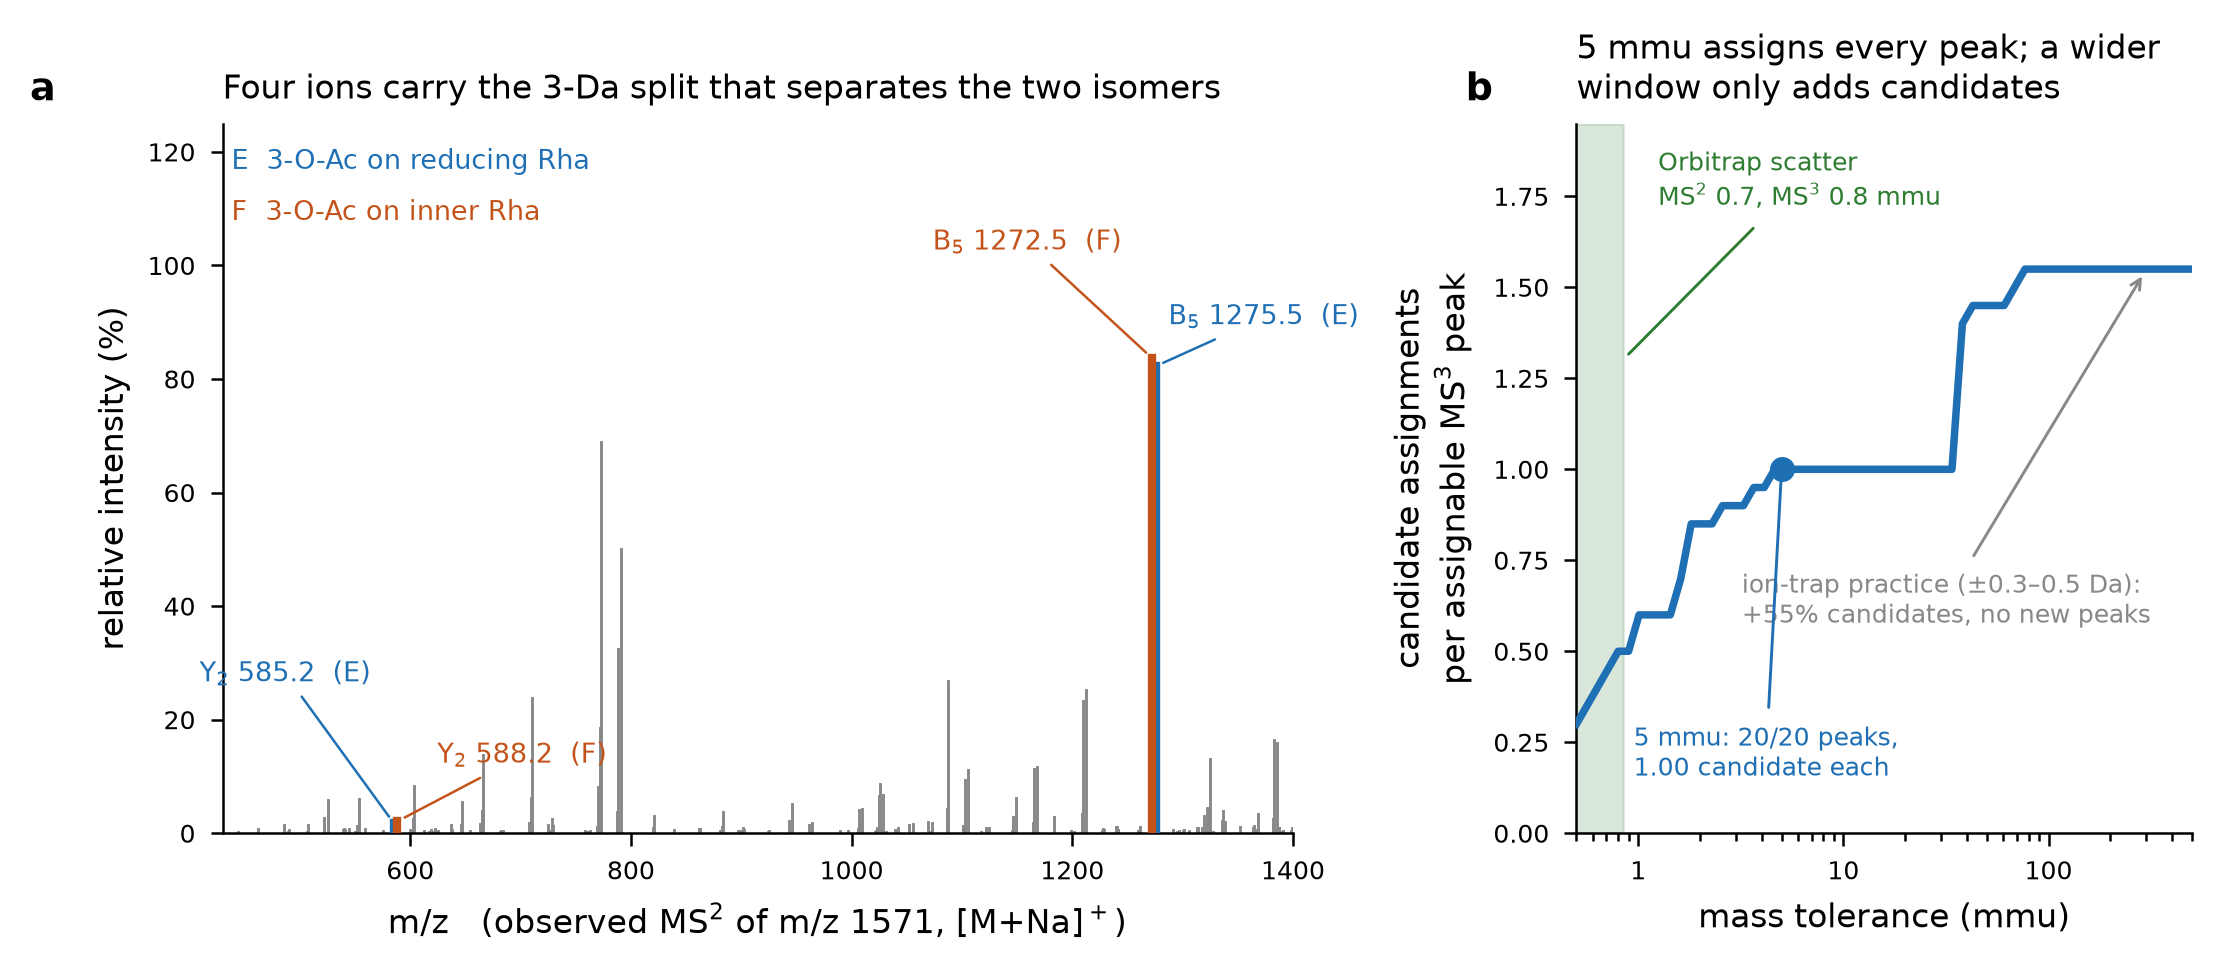
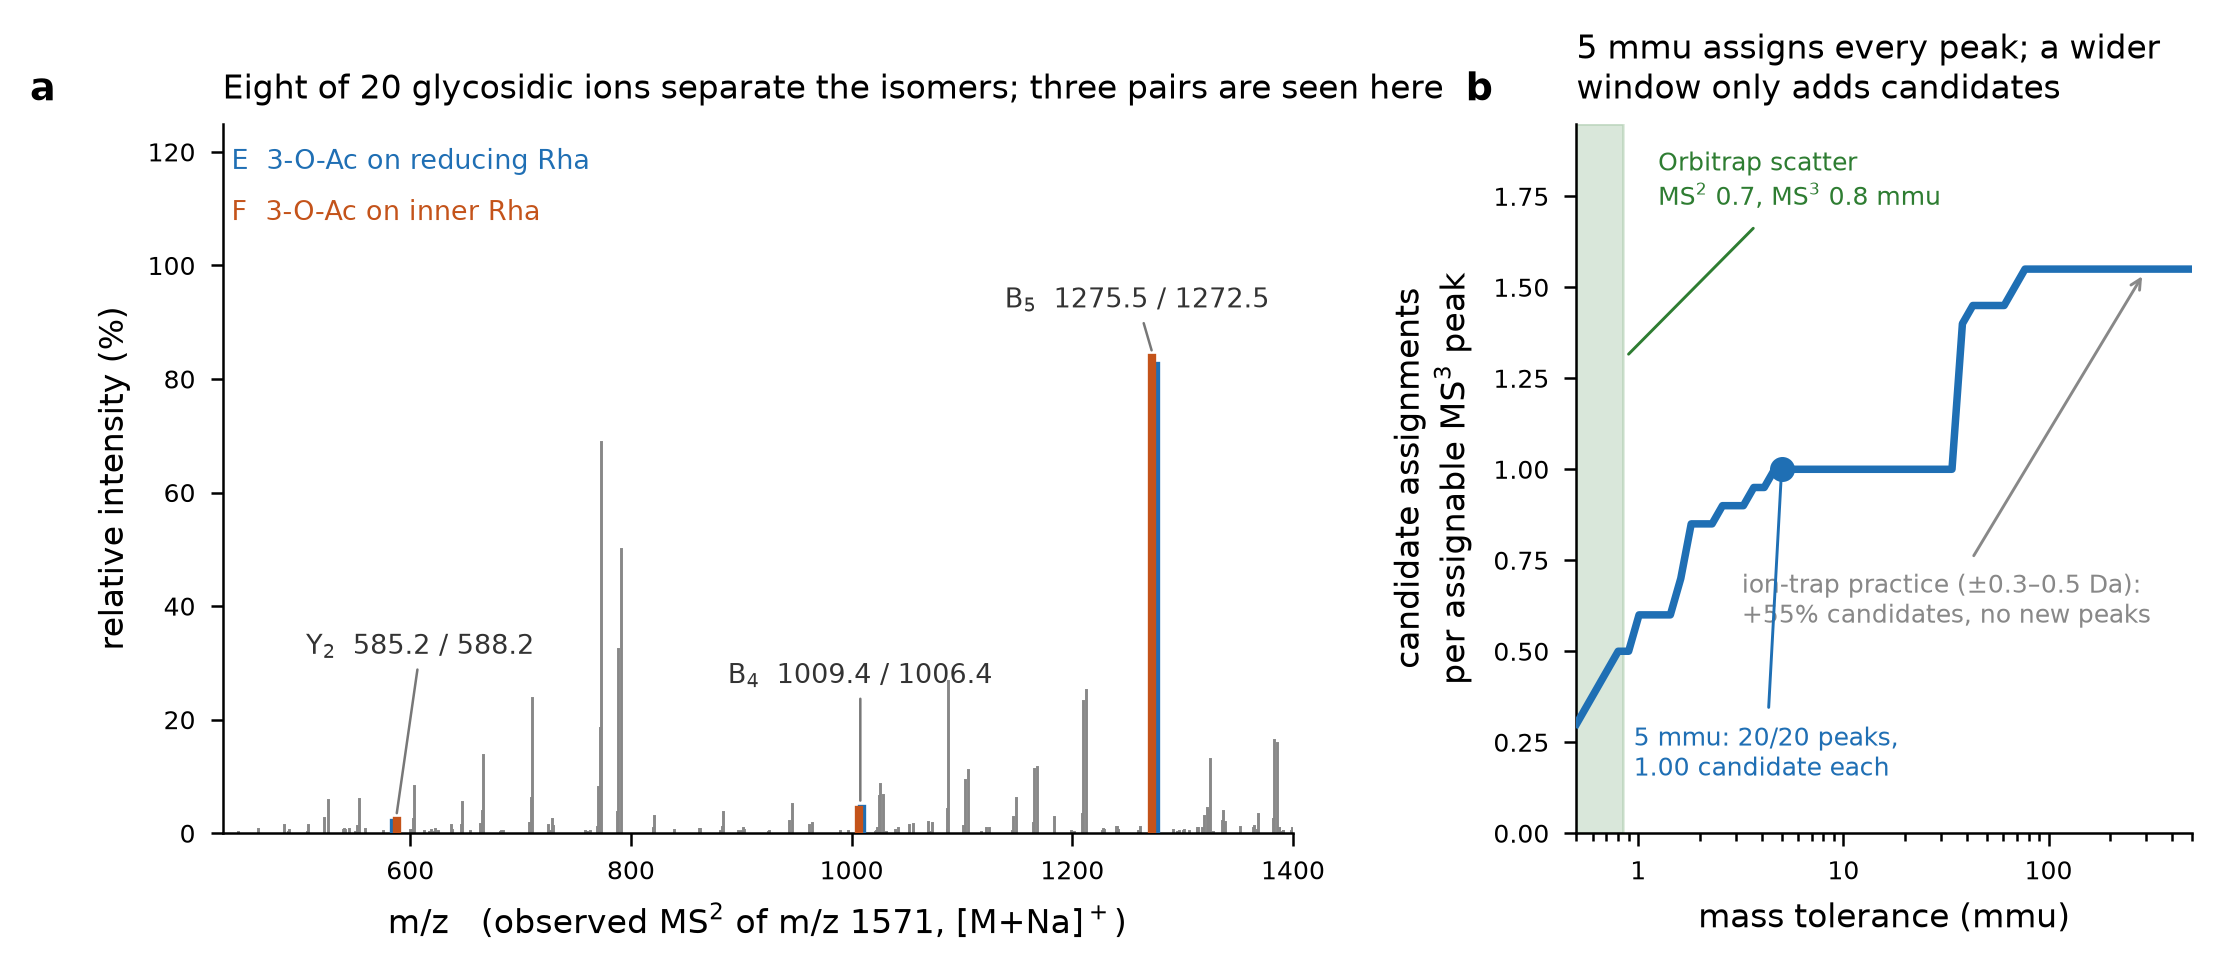
RG-I MS^n interpreter: library, desktop app, validation against doi:10.1021/jasms.5c00440

diff --git a/README.md b/README.md
@@ -22,7 +22,7 @@ Each candidate oligomer is built as an explicit **atom graph** - RG-I backbone,
 *O*-acetyls in place, optional Gal side chain. Fragments are generated by cutting bonds on
 that graph, so a cross-ring ion's mass follows from which carbons it keeps and what is
 esterified on them. That is what separates 3-*O*- from 2-*O*- and 4-*O*-acetylation, and it
-is why no residue-increment tables are needed. Full conventions are in
+is why no residue-increment tables are needed (Figure 1). Full conventions are in
 [docs/METHOD.md](docs/METHOD.md).
 
 - glycosidic B/C/Y/Z and cross-ring A/X ions in Domon-Costello nomenclature
@@ -35,13 +35,30 @@ is why no residue-increment tables are needed. Full conventions are in
   which is the normal situation for an RG-I digest
 - every competing assignment for a peak, not one best guess
 
+![Atom graph of a deuteroacetylated RG-I DP6 and of one rhamnose ring](figures/rgi_atom_graph_scheme.png)
+
+**Figure 1.** How a candidate is represented. (a) The precursor as one graph: residues,
+the linkage oxygen of every glycosidic bond, and every acyl group are nodes. The glycosidic
+unit C1-O-Cp carries two cleavable bonds, so B/Y comes from cutting C1-O and C/Z from
+cutting O-Cp. (b) The reducing-end rhamnose at atom resolution, with the six ring bonds
+numbered as the code numbers them (0: O5-C1 through 5: C5-O5). The <sup>1,3</sup>X<sub>0</sub>
+cut severs bonds 1 and 3; the retained piece (blue) keeps C1, O5, C5 and C4, and therefore
+reports what sits on O-4 and O-1 while being blind to O-3. Both positional isomers give this
+fragment the *same 25 atoms in the same connectivity*, but 3-*O*-acetylation leaves two
+d<sub>3</sub>-acetyl groups on the retained piece (C<sub>8</sub>H<sub>6</sub>D<sub>6</sub>O<sub>5</sub>,
+*m/z* 217.095) where 4-*O*-acetylation leaves one d<sub>3</sub>-acetyl and the native acetyl
+(C<sub>8</sub>H<sub>9</sub>D<sub>3</sub>O<sub>5</sub>, *m/z* 214.077) - a 3.019 Da difference
+that a residue-increment model cannot produce.
+
 ![Discrimination of two mono-O-acetyl isomers, and the effect of mass tolerance on MS3 assignment](figures/rgi_isomer_discrimination.png)
 
-**Figure 1.** (a) Observed MS<sup>2</sup> of *m/z* 1571.61 ([M+Na]<sup>+</sup>, CID 30,
+**Figure 2.** (a) Observed MS<sup>2</sup> of *m/z* 1571.61 ([M+Na]<sup>+</sup>, CID 30,
 deuteroacetylated DP6), centroided from the raw profile export and calibration-corrected.
-Of 20 predicted glycosidic ions only four carry the 3-Da separation between isomer E
-(3-*O*-Ac on the reducing-end Rha) and isomer F (3-*O*-Ac on the inner Rha); the two
-B<sub>5</sub> ions are the pair that actually resolves them. (b) Mean number of candidate
+Eight of the 20 predicted glycosidic ions - B<sub>4</sub>, B<sub>5</sub>, C<sub>4</sub>,
+C<sub>5</sub>, Y<sub>1</sub>, Y<sub>2</sub>, Z<sub>1</sub>, Z<sub>2</sub> - carry the 3-Da
+separation between isomer E (3-*O*-Ac on the reducing-end Rha) and isomer F (3-*O*-Ac on the
+inner Rha). Three of those pairs have both members above the noise floor in this spectrum and
+are annotated (E value / F value). (b) Mean number of candidate
 assignments per assignable MS<sup>3</sup> peak against mass tolerance, for the MS<sup>3</sup>
 of *m/z* 1087.42 (Y<sub>4</sub>) at `depth=2`, n = 20 assignable peaks. The shaded band is
 the measured peak-to-peak mass scatter of these Orbitrap spectra after removal of a

diff --git a/docs/METHOD.md b/docs/METHOD.md
@@ -25,6 +25,17 @@ on which carbon. That is what distinguishes 3-*O*- from 2-*O*- or 4-*O*-acetylat
 
 ## 2. Cleavage conventions
 
+![Atom graph of a deuteroacetylated RG-I DP6 and of one rhamnose ring](../figures/rgi_atom_graph_scheme.png)
+
+**Scheme 1.** Residues, linkage oxygens and acyl groups are all nodes of one graph (left).
+At atom resolution (right) the six ring bonds are numbered as the code numbers them, and the
+<sup>1,3</sup>X<sub>0</sub> cut keeps C1, O5, C5 and C4 - so it reports O-4 and O-1 and is
+blind to O-3. The two positional isomers give this fragment the same 25 atoms in the same
+connectivity but differ by 3.019 Da
+(C<sub>8</sub>H<sub>6</sub>D<sub>6</sub>O<sub>5</sub>, *m/z* 217.095 for 3-*O*-Ac;
+C<sub>8</sub>H<sub>9</sub>D<sub>3</sub>O<sub>5</sub>, *m/z* 214.077 for 4-*O*-Ac).
+
+
 The glycosidic unit C1-O-Cp carries two cleavable bonds, giving B/Y (C1-O) and C/Z (O-Cp),
 with the oxygen-retaining side gaining one hydrogen. Ring bonds are numbered 0: O5-C1,
 1: C1-C2, 2: C2-C3, 3: C3-C4, 4: C4-C5, 5: C5-O5; a cross-ring cleavage cuts two of them,
